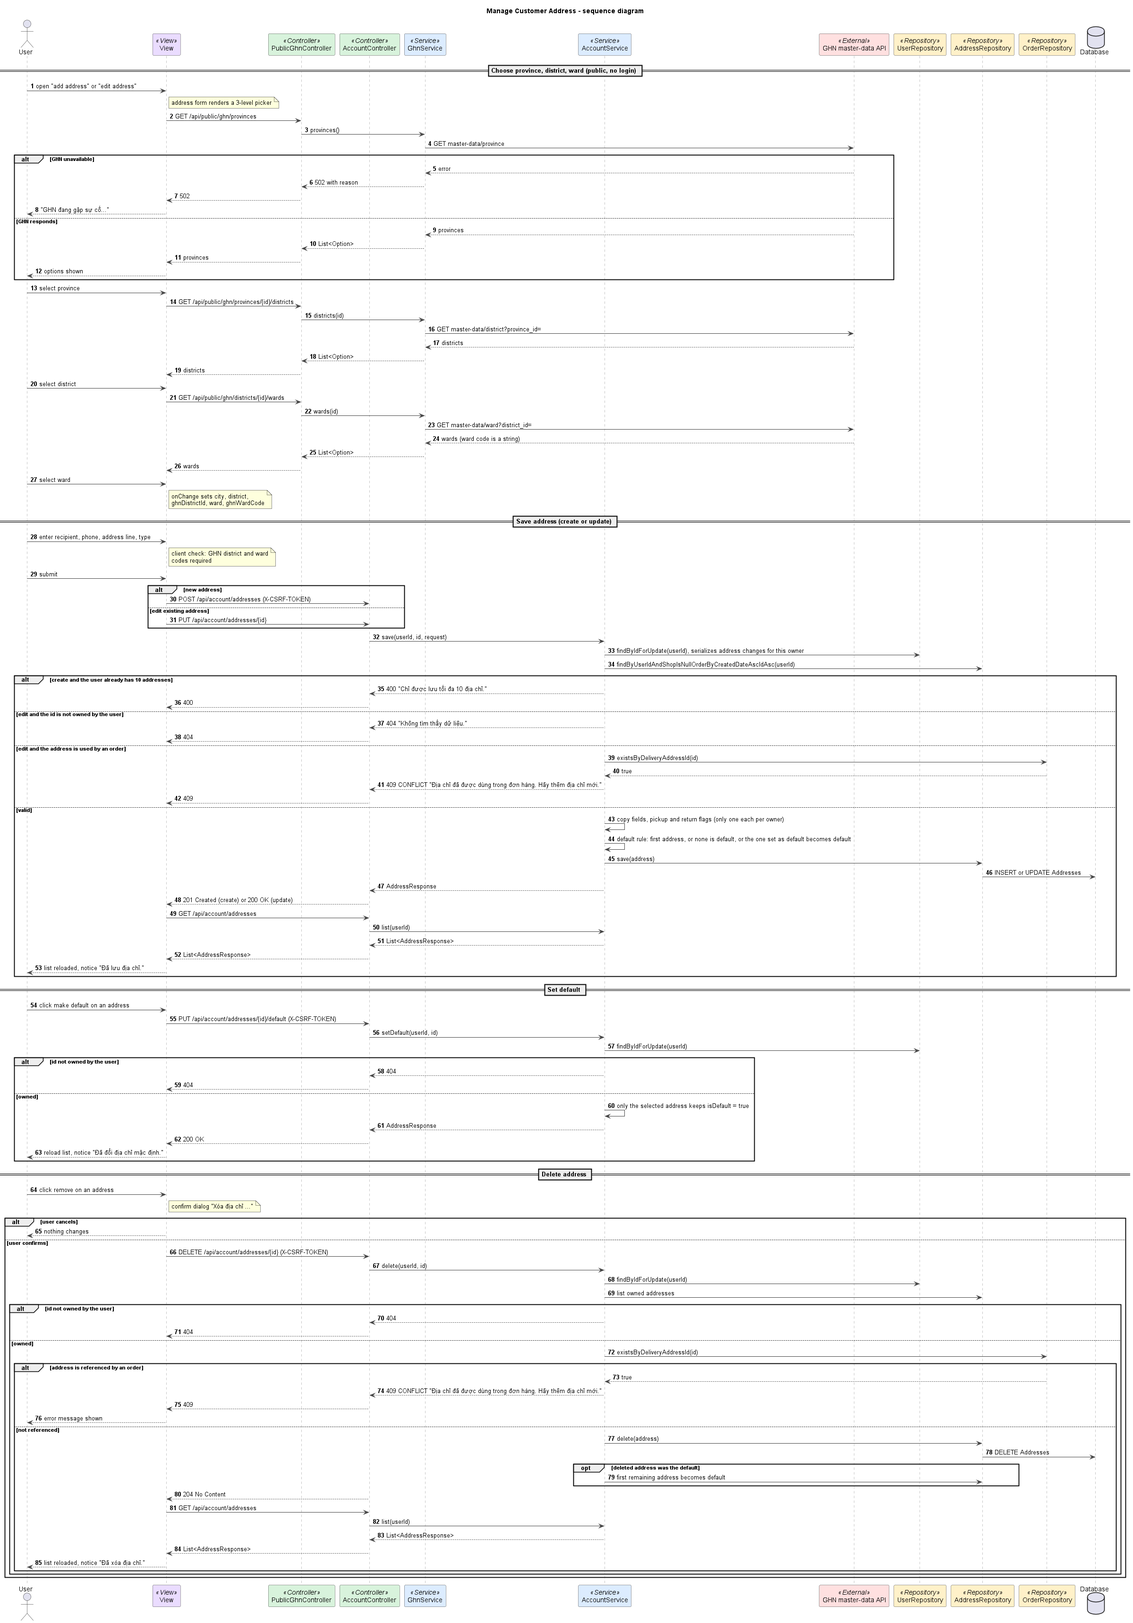
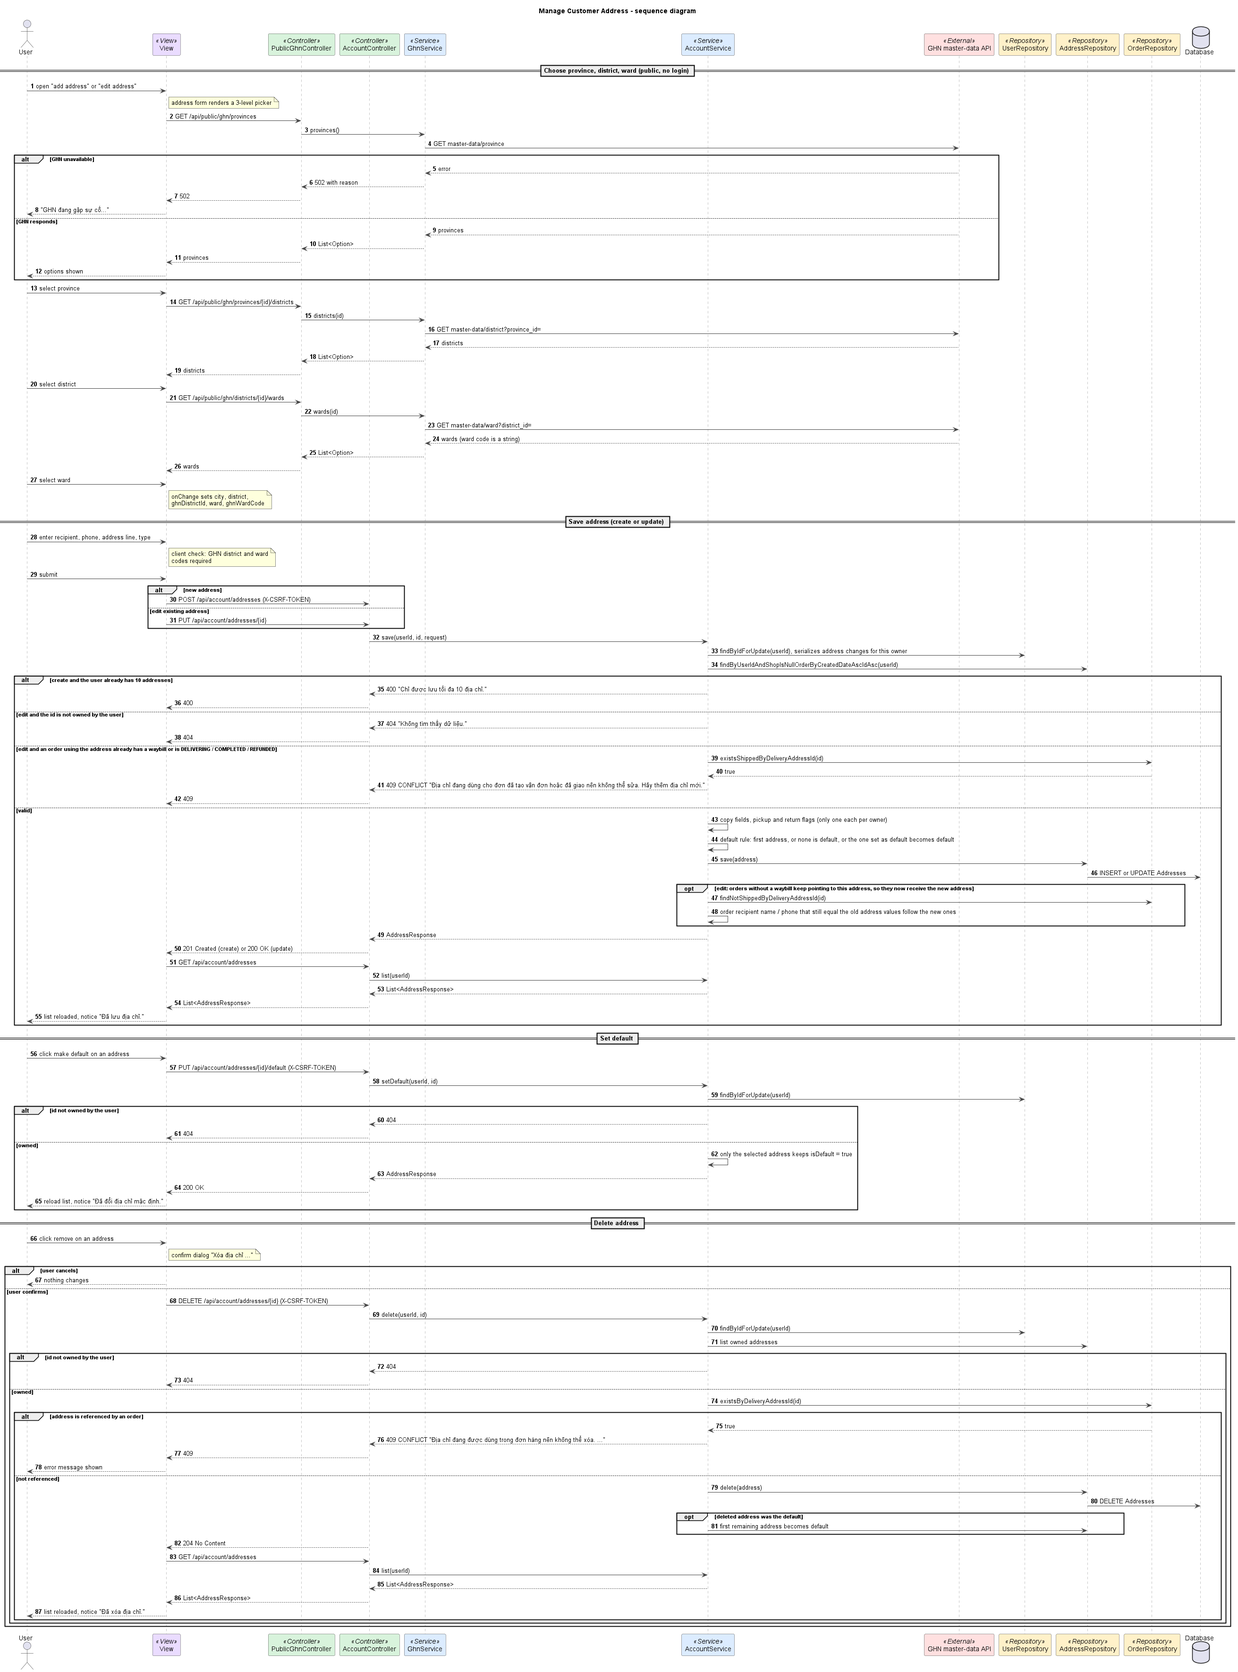
fix uI

diff --git a/flower-shop-client/src/views/CustomerOrderDetailView.jsx b/flower-shop-client/src/views/CustomerOrderDetailView.jsx
@@ -92,6 +92,10 @@ const paidAmount = order => (order.payments || [])
 /** Chưa giao cho GHN thì khách còn hủy được (backend kiểm tra lại). */
 const cancellableStatuses = ['PENDING', 'AWAITING_DEPOSIT', 'DEPOSIT_PAID', 'PROCESSING','AWAITING_QUOTE','QUOTED']
 
+// Địa chỉ nhận của đơn sửa được cho đến khi tạo vận đơn (chưa có Delivery, chưa đến DELIVERING); backend khóa sửa từ lúc đó.
+const addressEditable = order => cancellableStatuses.includes(order.status) && !order.delivery
+const addressLocked = order => !!order.delivery || ['DELIVERING', 'COMPLETED', 'REFUNDED'].includes(order.status)
+
 const trackingSteps = [
     'Cửa hàng đang chuẩn bị đơn hàng',
     'Cửa hàng đã giao hàng cho đơn vị vận chuyển',
@@ -278,6 +282,22 @@ export default function CustomerOrderDetailView() {
                         })}
                     </ol>
                 </section>
+
+                {order.deliveryAddress && <section className="mb-6 rounded-lg border border-gray-200 p-4 dark:border-white/10" aria-label="Địa chỉ nhận hàng">
+                    <div className="flex flex-wrap items-start justify-between gap-3">
+                        <div>
+                            <h2 className="font-semibold">Địa chỉ nhận hàng</h2>
+                            <p className="mt-1 text-sm"><strong>{order.recipientName}</strong>{order.recipientPhone && ` · ${order.recipientPhone}`}</p>
+                            <p className="text-sm text-gray-600 dark:text-gray-300">{order.deliveryAddress}</p>
+                        </div>
+                        {addressEditable(order) && (
+                            <Link to="/account" className="rounded-lg border border-gray-300 px-3 py-2 text-sm font-medium dark:border-white/10">Sửa địa chỉ</Link>
+                        )}
+                    </div>
+                    {addressEditable(order)
+                        ? <p className="mt-2 text-xs text-gray-500">Bạn có thể sửa địa chỉ này trong hồ sơ cho đến khi cửa hàng giao đơn cho đơn vị vận chuyển (tạo mã vận đơn). Phí vận chuyển đã chốt khi đặt hàng không thay đổi.</p>
+                        : addressLocked(order) && <p className="mt-2 text-xs text-gray-500">Đơn đã tạo vận đơn hoặc đã giao nên không thể đổi địa chỉ nhận hàng.</p>}
+                </section>}
 
                 <div className="border rounded-lg overflow-hidden mb-4">
                     <table className="min-w-full">

diff --git a/flower-shop-client/src/views/ManagerShopsView.jsx b/flower-shop-client/src/views/ManagerShopsView.jsx
@@ -1,7 +1,6 @@
 import { useState, useEffect } from "react";
 import { useManagerShopController } from "../controllers/useManagerShopController";
 import { shopStatusLabels } from "../models/shopModel";
-import StaffApplicationsView from "./StaffApplicationsView";
 import ShopInvitationsView from "./ShopInvitationsView";
 import ProductsView from "./ProductsView";
 import OrderQueueView from "./OrderQueueView";
@@ -20,7 +19,7 @@ import GhnAddressPicker from "../components/GhnAddressPicker";
  * 1. Thông tin hồ sơ shop (Tên, mô tả, logo).
  * 2. Cấu hình địa chỉ kho lấy hàng chuẩn 3 cấp theo API Giao Hàng Nhanh (GHN).
  * 3. Quản lý danh sách nhân viên của cửa hàng.
- * 4. Tích hợp các module con: Duyệt đơn ứng tuyển (StaffApplicationsView), Quản lý sản phẩm (ProductsView).
+ * 4. Tích hợp các module con: Mời nhân viên (ShopInvitationsView), Quản lý sản phẩm (ProductsView).
  * 
  * @param {string} role - Quyền người dùng ('SHOP' hoặc 'SHOP_STAFF')
  * @param {string} section - Mục đang hiển thị ('all', 'shop', 'staff', 'products', 'orders')
@@ -212,7 +211,6 @@ export default function ManagerShopsView({ role, section = "all" }) {
           {role === "SHOP" && ["all", "staff"].includes(section) && (
             <div className="space-y-6">
               <ShopInvitationsView key={`invitations-${c.selected.id}`} shop={c.selected} />
-              <StaffApplicationsView key={c.selected.id} shop={c.selected} />
               
               <ComponentCard title="Nhân viên cửa hàng">
                 <p className="mb-4 text-gray-500 dark:text-gray-400">

diff --git a/flower-shop-client/src/layout/AppHeader.tsx b/flower-shop-client/src/layout/AppHeader.tsx
@@ -5,6 +5,7 @@ import NotificationDropdown from "@/components/header/NotificationDropdown";
 import UserDropdown from "@/components/header/UserDropdown";
 import { useSidebar } from "@/context/SidebarContext";
 import { cn } from "@/utils";
+import { homePathFor } from "@/utils/homePath";
 import { useEffect, useRef, useState } from "react";
 import { useTranslation } from "react-i18next";
 import { Link, useLocation } from "react-router";
@@ -60,7 +61,7 @@ const AppHeader: React.FC = () => {
       <div className="flex grow flex-col items-center justify-between xl:flex-row xl:px-6">
         <div className="flex w-full items-center justify-between gap-2 border-b border-gray-200 px-3 py-3 sm:gap-4 xl:justify-normal xl:border-b-0 xl:px-0 xl:py-4 dark:border-gray-800">
           {!isBackOffice && (
-            <Link to="/" className="flex shrink-0 items-center gap-2 rounded-lg">
+            <Link to={homePathFor(user?.role)} className="flex shrink-0 items-center gap-2 rounded-lg">
               <span className="text-2xl" aria-hidden="true">✿</span>
               <span className="text-xl font-bold text-brand-500">FlowerShop</span>
             </Link>

diff --git a/flower-shop-client/src/layout/PublicFooter.tsx b/flower-shop-client/src/layout/PublicFooter.tsx
@@ -1,13 +1,16 @@
 import React from 'react';
 import { Link } from 'react-router';
+import { useAuth } from '@/context/AuthContext';
+import { homePathFor } from '@/utils/homePath';
 
 const PublicFooter: React.FC = () => {
+  const { user } = useAuth();
   return (
     <footer className="w-full bg-white border-t border-gray-200 dark:bg-gray-900 dark:border-gray-800 transition-colors duration-300 mt-auto">
       <div className="mx-auto max-w-7xl px-4 sm:px-6 lg:px-8 py-12">
         <div className="grid grid-cols-1 md:grid-cols-4 gap-8">
           <div className="md:col-span-1">
-            <Link to="/" className="flex items-center gap-2 mb-4">
+            <Link to={homePathFor(user?.role)} className="flex items-center gap-2 mb-4">
               <span className="text-2xl font-bold text-brand-500 dark:text-brand-400">✿ FlowerShop</span>
             </Link>
             <p className="text-sm text-gray-500 dark:text-gray-400">

diff --git a/flower-shop-client/src/views/HomeView.jsx b/flower-shop-client/src/views/HomeView.jsx
@@ -1,6 +1,5 @@
 import { useShopSearchController } from "../controllers/useShopSearchController";
 import { useEffect, useState } from "react";
-import ManagerNotificationsView from "./ManagerNotificationsView";
 import ManagerApplicationView from "./ManagerApplicationView";
 import ProductsView from "./ProductsView";
 import ProductCatalogView from "./ProductCatalogView";
@@ -67,8 +66,6 @@ export default function HomeView({ auth }) {
             <p className="text-sm text-error-600 dark:text-error-500">{auth.error}</p>
           </div>
         )}
-        
-        {auth.user?.role === "SHOP" && <ManagerNotificationsView />}
         
         {auth.user && ["CUSTOMER", "SHOP"].includes(auth.user.role) && (
           <ManagerApplicationView key={auth.user.id} user={auth.user} />

diff --git a/flower-shop-client/src/layout/AppSidebar.tsx b/flower-shop-client/src/layout/AppSidebar.tsx
@@ -16,6 +16,7 @@ import {
   UserCircleIcon,
 } from "../icons";
 import { cn } from "../utils";
+import { homePathFor } from "../utils/homePath";
 import { useChatUnread } from "../controllers/useChatUnread";
 
 type NavItem = {
@@ -341,7 +342,7 @@ const AppSidebar: React.FC = () => {
           !isExpanded && !isHovered ? "xl:justify-center" : "justify-start",
         )}
       >
-        <Link to="/" className="flex items-center gap-2">
+        <Link to={homePathFor(user?.role)} className="flex items-center gap-2">
           <span className="text-2xl">✿</span>
           {(isExpanded || isHovered || isMobileOpen) && (
             <span className="text-xl font-bold text-brand-500 truncate">

diff --git a/flower-shop-client/src/views/AdminCustomersView.jsx b/flower-shop-client/src/views/AdminCustomersView.jsx
@@ -141,7 +141,7 @@ export default function AdminCustomersView() {
 
       {/* Detail Modal Overlay */}
       {c.selected && (
-        <div className="fixed inset-0 z-50 flex items-center justify-center bg-gray-900/50 p-4 backdrop-blur-sm">
+        <div className="fixed inset-0 z-99999 flex items-center justify-center bg-gray-900/50 p-4 backdrop-blur-sm">
           <div className="w-full max-w-lg rounded-2xl bg-white p-6 shadow-xl dark:bg-gray-800">
             <h3 className="mb-4 text-lg font-semibold text-gray-900 dark:text-white">Chi tiết khách hàng</h3>
             <div className="space-y-3 mb-6">

diff --git a/flower-shop-client/src/views/AdminShopsView.jsx b/flower-shop-client/src/views/AdminShopsView.jsx
@@ -148,7 +148,7 @@ export default function AdminShopsView() {
 
       {/* Detail Modal Overlay */}
       {c.selected && (
-        <div className="fixed inset-0 z-50 flex items-center justify-center bg-gray-900/50 p-4 backdrop-blur-sm">
+        <div className="fixed inset-0 z-99999 flex items-center justify-center bg-gray-900/50 p-4 backdrop-blur-sm">
           <div className="w-full max-w-2xl max-h-[90vh] overflow-y-auto rounded-2xl bg-white p-6 shadow-xl dark:bg-gray-800">
             <h3 className="mb-4 text-xl font-semibold text-gray-900 dark:text-white">{c.selected.name}</h3>
             

diff --git a/flower-shop-client/src/utils/homePath.ts b/flower-shop-client/src/utils/homePath.ts
@@ -1,0 +1,9 @@
+/**
+ * Màn hình chính của từng vai trò, dùng cho logo: Admin về trang quản trị, chủ shop và nhân viên về trang quản lý shop,
+ * khách hàng và khách vãng lai về trang chủ cửa hàng. Khớp với nơi hệ thống chuyển người dùng sau khi đăng nhập.
+ */
+export function homePathFor(role?: string | null): string {
+  if (role === "ADMIN") return "/admin";
+  if (role === "SHOP" || role === "SHOP_STAFF") return "/shop-admin";
+  return "/";
+}

diff --git a/flowershop/src/test/java/com/example/flowershop/AccountAddressEditTests.java b/flowershop/src/test/java/com/example/flowershop/AccountAddressEditTests.java
@@ -1,0 +1,117 @@
+package com.example.flowershop;
+
+import com.example.flowershop.dto.account.AddressRequest;
+import com.example.flowershop.entity.Address;
+import com.example.flowershop.entity.Order;
+import com.example.flowershop.entity.User;
+import com.example.flowershop.repository.AddressRepository;
+import com.example.flowershop.repository.OrderRepository;
+import com.example.flowershop.repository.ShopRepository;
+import com.example.flowershop.repository.UserRepository;
+import com.example.flowershop.service.AccountService;
+import com.example.flowershop.service.CloudinaryService;
+import org.junit.jupiter.api.BeforeEach;
+import org.junit.jupiter.api.Test;
+import org.springframework.web.server.ResponseStatusException;
+
+import java.util.ArrayList;
+import java.util.List;
+import java.util.Optional;
+
+import static org.junit.jupiter.api.Assertions.*;
+import static org.mockito.ArgumentMatchers.any;
+import static org.mockito.ArgumentMatchers.anyString;
+import static org.mockito.Mockito.*;
+
+/**
+ * Địa chỉ gắn với đơn hàng: sửa được khi mọi đơn dùng nó chưa tạo vận đơn (chưa đến DELIVERING);
+ * bị khóa khi có đơn đã tạo vận đơn hoặc đã giao; xóa vẫn bị chặn khi còn đơn trỏ tới.
+ */
+class AccountAddressEditTests {
+
+    private UserRepository users;
+    private AddressRepository addresses;
+    private OrderRepository orders;
+    private AccountService service;
+    private Address address;
+
+    @BeforeEach
+    void setUp() {
+        users = mock(UserRepository.class);
+        addresses = mock(AddressRepository.class);
+        orders = mock(OrderRepository.class);
+        var user = User.builder().id("cus-1").build();
+        when(users.findByIdForUpdate("cus-1")).thenReturn(Optional.of(user));
+        address = Address.builder().id("addr-1").user(user).addressLine("Số 1").city("Hà Nội").district("Cầu Giấy")
+                .ward("Dịch Vọng").ghnDistrictId(1).ghnWardCode("1A").recipientName("Lan").recipientPhone("0900000001")
+                .addressType("HOME").isDefault(true).build();
+        when(addresses.findByUserIdAndShopIsNullOrderByCreatedDateAscIdAsc("cus-1")).thenReturn(new ArrayList<>(List.of(address)));
+        when(addresses.save(any())).thenAnswer(i -> i.getArgument(0));
+        service = new AccountService(users, addresses, orders, mock(CloudinaryService.class), mock(ShopRepository.class));
+    }
+
+    private static AddressRequest edit(String line, String name, String phone) {
+        return new AddressRequest(line, "Hà Nội", "Cầu Giấy", "Dịch Vọng", true, name, phone, null, null, "HOME", 1, "1A");
+    }
+
+    private static Order orderWith(String name, String phone) {
+        var order = new Order();
+        order.setId("o-1");
+        order.setRecipientName(name);
+        order.setRecipientPhone(phone);
+        return order;
+    }
+
+    @Test
+    void addressCanBeEditedWhileEveryOrderUsingItHasNoWaybill() {
+        when(orders.existsShippedByDeliveryAddressId("addr-1")).thenReturn(false);
+
+        var response = service.save("cus-1", "addr-1", edit("Số 99 Phố Mới", "Lan", "0900000001"));
+
+        assertEquals("Số 99 Phố Mới", response.addressLine());
+        assertEquals("Số 99 Phố Mới", address.getAddressLine());
+    }
+
+    @Test
+    void editIsRefusedOnceAnOrderUsingItHasAWaybillOrIsDelivering() {
+        when(orders.existsShippedByDeliveryAddressId("addr-1")).thenReturn(true);
+
+        var e = assertThrows(ResponseStatusException.class,
+                () -> service.save("cus-1", "addr-1", edit("Số 99 Phố Mới", "Lan", "0900000001")));
+
+        assertEquals(409, e.getStatusCode().value());
+        assertTrue(e.getReason().contains("vận đơn"));
+        assertEquals("Số 1", address.getAddressLine(), "address must stay untouched");
+    }
+
+    @Test
+    void recipientOfUnshippedOrdersFollowsTheAddressWhenItHadFollowedItBefore() {
+        var following = orderWith("Lan", "0900000001");
+        var customised = orderWith("Mẹ của Lan", "0911111111");
+        when(orders.findNotShippedByDeliveryAddressId("addr-1")).thenReturn(List.of(following, customised));
+
+        service.save("cus-1", "addr-1", edit("Số 1", "Lan Anh", "0900000002"));
+
+        assertEquals("Lan Anh", following.getRecipientName());
+        assertEquals("0900000002", following.getRecipientPhone());
+        assertEquals("Mẹ của Lan", customised.getRecipientName(), "value typed for this order is kept");
+        assertEquals("0911111111", customised.getRecipientPhone());
+    }
+
+    @Test
+    void newAddressNeverChecksOrders() {
+        service.save("cus-1", null, edit("Số 5", "Lan", "0900000001"));
+        verify(orders, never()).existsShippedByDeliveryAddressId(anyString());
+        verify(orders, never()).findNotShippedByDeliveryAddressId(anyString());
+    }
+
+    @Test
+    void deleteStaysBlockedWhileAnyOrderPointsToTheAddress() {
+        when(orders.existsByDeliveryAddressId("addr-1")).thenReturn(true);
+
+        var e = assertThrows(ResponseStatusException.class, () -> service.delete("cus-1", "addr-1"));
+
+        assertEquals(409, e.getStatusCode().value());
+        verify(addresses, never()).delete(any());
+    }
+}

diff --git a/flowershop/src/main/java/com/example/flowershop/service/AccountService.java b/flowershop/src/main/java/com/example/flowershop/service/AccountService.java
@@ -105,9 +105,12 @@ public class AccountService {
             address = Address.builder().id(UUID.randomUUID().toString()).user(user).createdBy(userId).build();
         } else {
             address = find(list, id);
-            if (orders.existsByDeliveryAddressId(id))
-                throw inUse();
+            // Đơn chưa có vận đơn vẫn nhận hoa theo địa chỉ đã sửa; chỉ khóa khi có đơn đã tạo vận đơn / đang giao / đã xong.
+            if (orders.existsShippedByDeliveryAddressId(id))
+                throw lockedByShipment();
         }
+        String previousRecipientName = address.getRecipientName();
+        String previousRecipientPhone = address.getRecipientPhone();
         address.setAddressLine(request.addressLine().strip());
         address.setCity(request.city().strip());
         address.setDistrict(request.district().strip());
@@ -131,7 +134,30 @@ public class AccountService {
                 a.setLastModifyBy(userId);
             });
         address.setIsDefault(makeDefault);
-        return AddressResponse.from(addresses.save(address));
+        Address saved = addresses.save(address);
+        if (id != null) followRecipientChange(saved, previousRecipientName, previousRecipientPhone, userId);
+        return AddressResponse.from(saved);
+    }
+
+    /**
+     * Người nhận của đơn được chép từ địa chỉ lúc đặt hàng. Khi sửa tên/SĐT người nhận của địa chỉ, các đơn chưa có vận đơn
+     * đang dùng đúng giá trị cũ đó được cập nhật theo; giá trị khách đã tự nhập riêng cho đơn thì giữ nguyên.
+     */
+    private void followRecipientChange(Address address, String previousName, String previousPhone, String actor) {
+        for (Order order : orders.findNotShippedByDeliveryAddressId(address.getId())) {
+            boolean changed = false;
+            if (Objects.equals(order.getRecipientName(), previousName)
+                    && !Objects.equals(previousName, address.getRecipientName())) {
+                order.setRecipientName(address.getRecipientName());
+                changed = true;
+            }
+            if (Objects.equals(order.getRecipientPhone(), previousPhone)
+                    && !Objects.equals(previousPhone, address.getRecipientPhone())) {
+                order.setRecipientPhone(address.getRecipientPhone());
+                changed = true;
+            }
+            if (changed) order.setLastModifyBy(actor);
+        }
     }
 
     public AddressResponse setDefault(String userId, String id) {
@@ -176,8 +202,15 @@ public class AccountService {
         return new ResponseStatusException(HttpStatus.NOT_FOUND, "Không tìm thấy dữ liệu.");
     }
 
+    /** Xóa: mọi đơn đang trỏ tới địa chỉ này (kể cả chưa giao) đều cần địa chỉ nhận, nên không xóa được. */
     private static ResponseStatusException inUse() {
         return new ResponseStatusException(HttpStatus.CONFLICT,
-                "Địa chỉ đã được dùng trong đơn hàng. Hãy thêm địa chỉ mới.");
+                "Địa chỉ đang được dùng trong đơn hàng nên không thể xóa. Bạn vẫn có thể sửa địa chỉ nếu đơn chưa giao cho đơn vị vận chuyển.");
+    }
+
+    /** Sửa: chỉ bị chặn khi có đơn đã tạo vận đơn hoặc đã giao. */
+    private static ResponseStatusException lockedByShipment() {
+        return new ResponseStatusException(HttpStatus.CONFLICT,
+                "Địa chỉ đang dùng cho đơn đã tạo vận đơn hoặc đã giao nên không thể sửa. Hãy thêm địa chỉ mới.");
     }
 }

diff --git a/flowershop/src/main/java/com/example/flowershop/repository/OrderRepository.java b/flowershop/src/main/java/com/example/flowershop/repository/OrderRepository.java
@@ -55,6 +55,27 @@ public class OrderRepository extends HibernateRepository<Order> {
         return countWhere("e.deliveryAddress.id = :addressId", Map.of("addressId", addressId)) > 0;
     }
 
+    /** Trạng thái đơn đã giao cho đơn vị vận chuyển hoặc đã kết thúc giao hàng. */
+    private static final List<OrderStatus> SHIPPED_STATUSES =
+            List.of(OrderStatus.DELIVERING, OrderStatus.COMPLETED, OrderStatus.REFUNDED);
+
+    /**
+     * Có đơn dùng địa chỉ này đã tạo vận đơn (có Delivery) hoặc đã đến DELIVERING trở đi không.
+     * Các đơn đó phải giữ nguyên địa chỉ nhận, nên địa chỉ không còn sửa được.
+     */
+    public boolean existsShippedByDeliveryAddressId(String addressId) {
+        return countWhere("e.deliveryAddress.id = :addressId and (e.status in :shipped"
+                + " or exists (select 1 from Delivery d where d.order = e))",
+                Map.of("addressId", addressId, "shipped", SHIPPED_STATUSES)) > 0;
+    }
+
+    /** Các đơn dùng địa chỉ này mà chưa tạo vận đơn: địa chỉ đổi thì các đơn này nhận hoa theo địa chỉ mới. */
+    public List<Order> findNotShippedByDeliveryAddressId(String addressId) {
+        return list("e.deliveryAddress.id = :addressId and e.status not in :shipped"
+                + " and not exists (select 1 from Delivery d where d.order = e)",
+                Map.of("addressId", addressId, "shipped", SHIPPED_STATUSES));
+    }
+
     public Page<Order> findByShopIdAndStatusIn(String shopId, Collection<OrderStatus> statuses, Pageable pageable) {
         return page("e.shop.id = :shopId and e.status in :statuses", Map.of("shopId", shopId, "statuses", statuses), pageable);
     }
